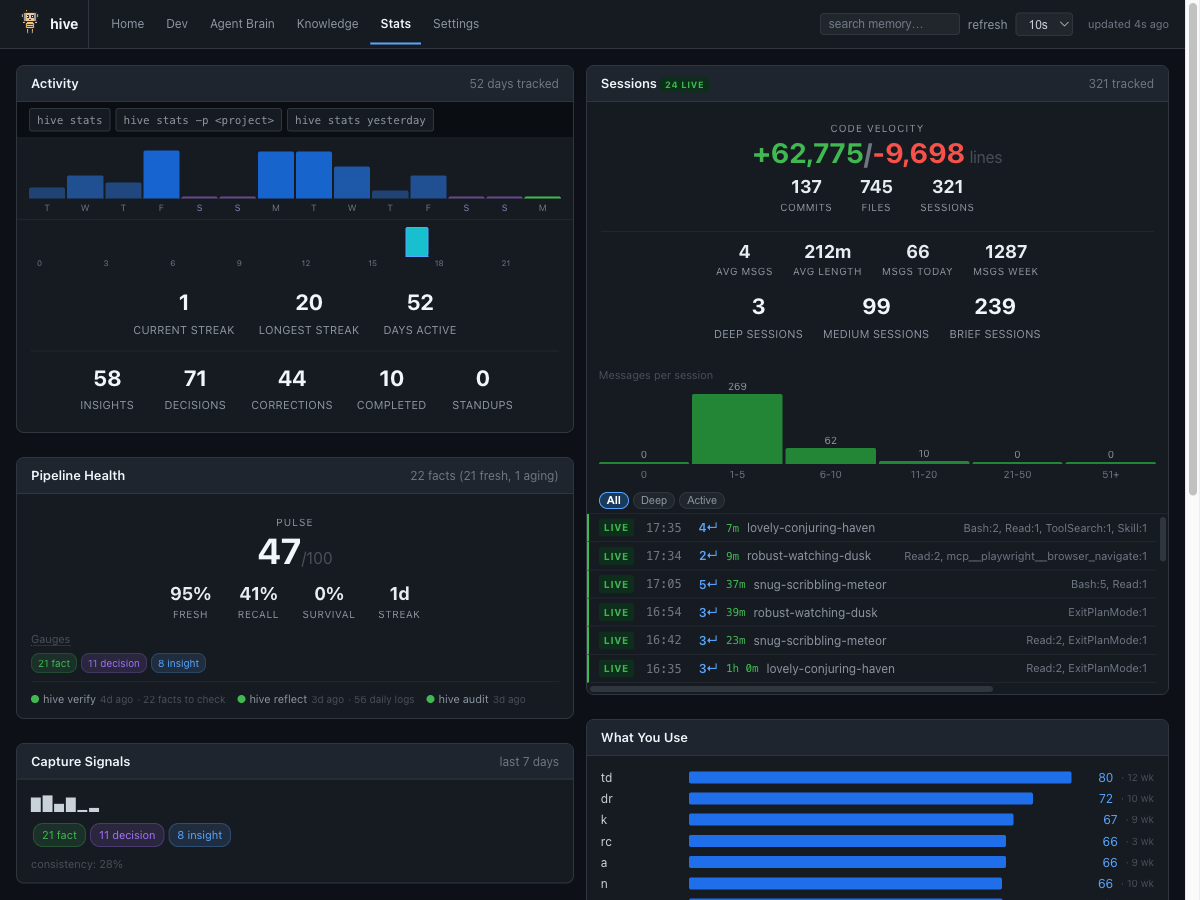
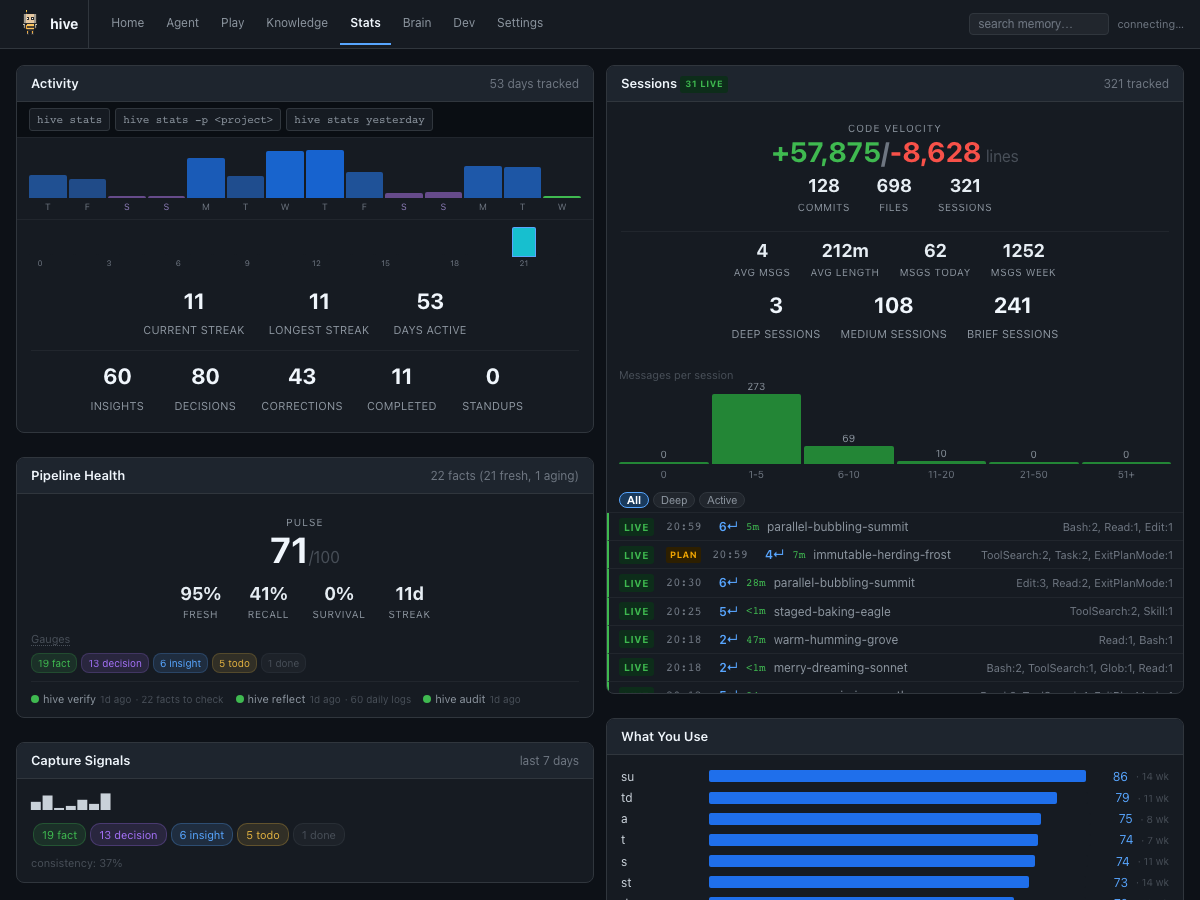
docs: fix migrated hive paths and refresh README/assets for v1.2.0

diff --git a/README.md b/README.md
@@ -54,7 +54,7 @@ Everything else on this page is optional depth.
 After a few sessions, `hive` shows what your agent has learned:
 
 <p align="center">
-  <img src="https://raw.githubusercontent.com/joryeugene/keephive/main/assets/cli-demo.gif" width="700" alt="keephive CLI demo — remember, recall, todo, log, knowledge, stats" />
+  <img src="https://raw.githubusercontent.com/joryeugene/keephive/main/assets/cli-demo.gif" width="700" alt="keephive CLI demo — remember, recall, todo, log, knowledge, stats, inbox" />
 </p>
 
 Keep your agent orientated across platforms. The new <code>hive serve /brain</code> view condenses working memory, rules, TODOs, and platform telemetry into a single high-density dashboard. It highlights the active backend, queued LLM work, and which agents (Claude, Gemini, Codex) are feeding data back into keephive.
@@ -64,8 +64,8 @@ Keep your agent orientated across platforms. The new <code>hive serve /brain</co
 
 ```console
 $ hive
-keephive v1.0.0
-  ● hooks  ● mcp  ● data
+keephive v1.2.0
+  ● hooks  ● mcp  ● data  ● daemon
 
   4 facts (4 ok) | 12 today | 8 yesterday | 2 guides | 48K
   42 cmds today · 120 this week · 5d streak ▁▂▅▃█▇▂▁▁▃▅▆▇█▂▁▁▁▁▁▁▁▁
@@ -81,7 +81,7 @@ keephive v1.0.0
 
   Active draft: slot 1 · "api testing todo list..." (47 words)  ->  hive nc
 
-  hive go (session) | hive l (log) | hive rf (reflect) | hive help
+  hive go (session) | hive inbox (ib) | hive l (log) | hive rf (reflect) | hive help
 ```
 
 </details>
@@ -178,6 +178,10 @@ uv tool upgrade keephive   # manual alternative; run keephive setup after
 | Use a multi-slot scratchpad        | `hive note` *(hive n)*                     |
 | Create a knowledge guide           | `hive knowledge edit <name>` *(hive ke)*   |
 | Generate a standup                 | `hive standup` *(hive su)*                 |
+| See what KingBee surfaced          | `hive inbox` *(hive ib)*                   |
+| Start an autonomous task loop      | `hive run "<task>"` *(hive rn)*            |
+| Review KingBee improvement ideas   | `hive improve list` *(hive im)*            |
+| Quick pipeline health check        | `hive checkup` *(hive ck)*                 |
 
 ---
 
@@ -257,7 +261,7 @@ flowchart TD
         WANDER["wander exploration"]
     end
 
-    subgraph CC["Claude Code Data (~/.keephive/usage-data/)"]
+    subgraph CC["Claude Code Data (~/.claude/usage-data/)"]
         META[("session-meta/<br>msgs, tools, duration,<br>lines, tokens, commits")]
         FACETS[("facets/<br>outcome, friction,<br>satisfaction")]
     end
@@ -352,7 +356,7 @@ If your agent exposes lifecycle hooks (session start, prompt submit, completion)
 ## Commands
 
 <details>
-<summary><b>Full command reference</b> (42 commands)</summary>
+<summary><b>Full command reference</b></summary>
 
 | Command                 | Short             | What                                       |
 | ----------------------- | ----------------- | ------------------------------------------ |
@@ -390,6 +394,7 @@ If your agent exposes lifecycle hooks (session start, prompt submit, completion)
 | `hive daemon [start]`   |                   | **KingBee background daemon** (morning briefs, soul) |
 | `hive privacy [on|off|cli]` | `hive pv`     | Pause/resume LLM calls or restrict to claude -p |
 | `hive doctor`           | `hive dr`         | Health check                               |
+| `hive checkup`          | `hive ck`         | Pipeline health: hooks, queues, JSON integrity, magic numbers |
 | `hive gc`               | `hive g`          | Archive old logs                           |
 | `hive setup`            |                   | Register hooks and MCP server              |
 | `hive update`           | `hive up`         | Upgrade keephive in-place                  |
@@ -427,12 +432,6 @@ Real-time SSE push updates (file watcher, no polling), Cmd+K search, split-pane 
 
 <p align="center">
   <img src="https://raw.githubusercontent.com/joryeugene/keephive/main/assets/dashboard-stats.png" width="700" alt="keephive stats view — sparkline, heatmap, streak, command breakdown" />
-</p>
-<p align="center">
-  <img src="https://raw.githubusercontent.com/joryeugene/keephive/main/assets/dashboard-play.png" width="700" alt="keephive /play — wander docs and seed management" />
-</p>
-<p align="center">
-  <img src="https://raw.githubusercontent.com/joryeugene/keephive/main/assets/dashboard-knowledge.png" width="700" alt="keephive knowledge view — guides and prompt templates" />
 </p>
 
 **UI feedback loop**: `hive ui-install` generates a bookmarklet and copies it to your clipboard. Paste it as a bookmark URL, then click it on any page to capture an element selector and a note. The feedback is POSTed to the dashboard server, queued in `.ui-queue`, and automatically injected into your next Claude Code prompt via the UserPromptSubmit hook. No copy-paste required.

diff --git a/CLAUDE.md b/CLAUDE.md
@@ -42,7 +42,7 @@ Prefer `just <recipe>` over raw commands. See `just --list` or the `justfile` fo
 - `commands/edit.py`: `hive e` targets (memory, rules, claude, today, todo, etc.). Opens `$EDITOR`.
 - `commands/knowledge.py`: List, view, create/edit knowledge guides and prompt templates.
 - `commands/note.py`: Multi-slot scratchpad. Open, copy, clear, list, restore, template start. `hive n todo` extracts TODOs via edit-buffer (full note, candidates pre-marked `- `, mtime cancel detection). `hive 4 "text"` quick-appends without editor.
-- `commands/profile.py`: Profile CRUD (create/list/use/delete). Sibling directories: `~/.claude/hive-{name}/`.
+- `commands/profile.py`: Profile CRUD (create/list/use/delete). Sibling directories: `~/.keephive/hive-{name}/`.
 - `commands/seed.py`: Demo data seeder. Deterministic RNG (`Random(42)`), loads from `data/demo/entries.json`.
 - `commands/session.py`: Interactive session launcher. Reuses `build_context()` from sessionstart, replaces process with `claude` via `os.execvpe`. kb mode: dynamically builds prompt from `read_kb_queue()` pending messages + `read_soul()` summary. Queue not cleared here — soul_update does that.
 - `commands/skill.py`: Plugin/skill system for extensible commands.
@@ -82,7 +82,7 @@ keephive and Claude Code track sessions independently. They serve different purp
 - Read by: `storage.read_cc_sessions()`, called from `session_metrics()`, `_session_productivity()`, and serve.py panels.
 
 **keephive** (source of truth for workflow analytics):
-- Location: `~/.claude/hive/.stats.json`
+- Location: `~/.keephive/hive/.stats.json`
 - Written by hooks during session. Contains: command usage, hourly patterns, project breakdown, daily aggregates, compacted flag
 - Also: `.prompt-counter`, `.tool-counter`, `.stop-counter` for nudge cadence (tuned for hook invocation frequency, not user counts)
 
@@ -219,7 +219,7 @@ Real LLM calls. Tests the full pipeline: prompt -> claude -p -> Pydantic validat
 - Time-travel with `HIVE_DATE` across multiple commands
 - Testing that commands create the right files
 
-**Use direct commands** (`hive a`, `hive v`, `hive stats`) when you need to verify something works against real user data, not test data. Direct commands hit your actual `~/.claude/hive/` directory. Use them for:
+**Use direct commands** (`hive a`, `hive v`, `hive stats`) when you need to verify something works against real user data, not test data. Direct commands hit your actual `~/.keephive/hive/` directory. Use them for:
 - Smoke-testing a fix against real accumulated data
 - Verifying LLM-dependent features (audit, verify) actually call the model
 - Checking serve dashboard renders with real content
@@ -303,6 +303,6 @@ save_terminal_output("scenario_name", term)
 **Gotchas:**
 - TODO text must be distinct enough to survive fuzzy dedup (0.8 SequenceMatcher threshold). "Task A"/"Task B" will dedup. Use descriptive names.
 - Single quotes in `send-keys` args need care. Prefer double quotes for fact text.
-- `HIVE_HOME` isolation means commands never touch real `~/.claude/hive/`.
+- `HIVE_HOME` isolation means commands never touch real `~/.keephive/hive/`.
 - Each `term` fixture creates a fresh tmux session with unique name. Cleanup is automatic.
 
